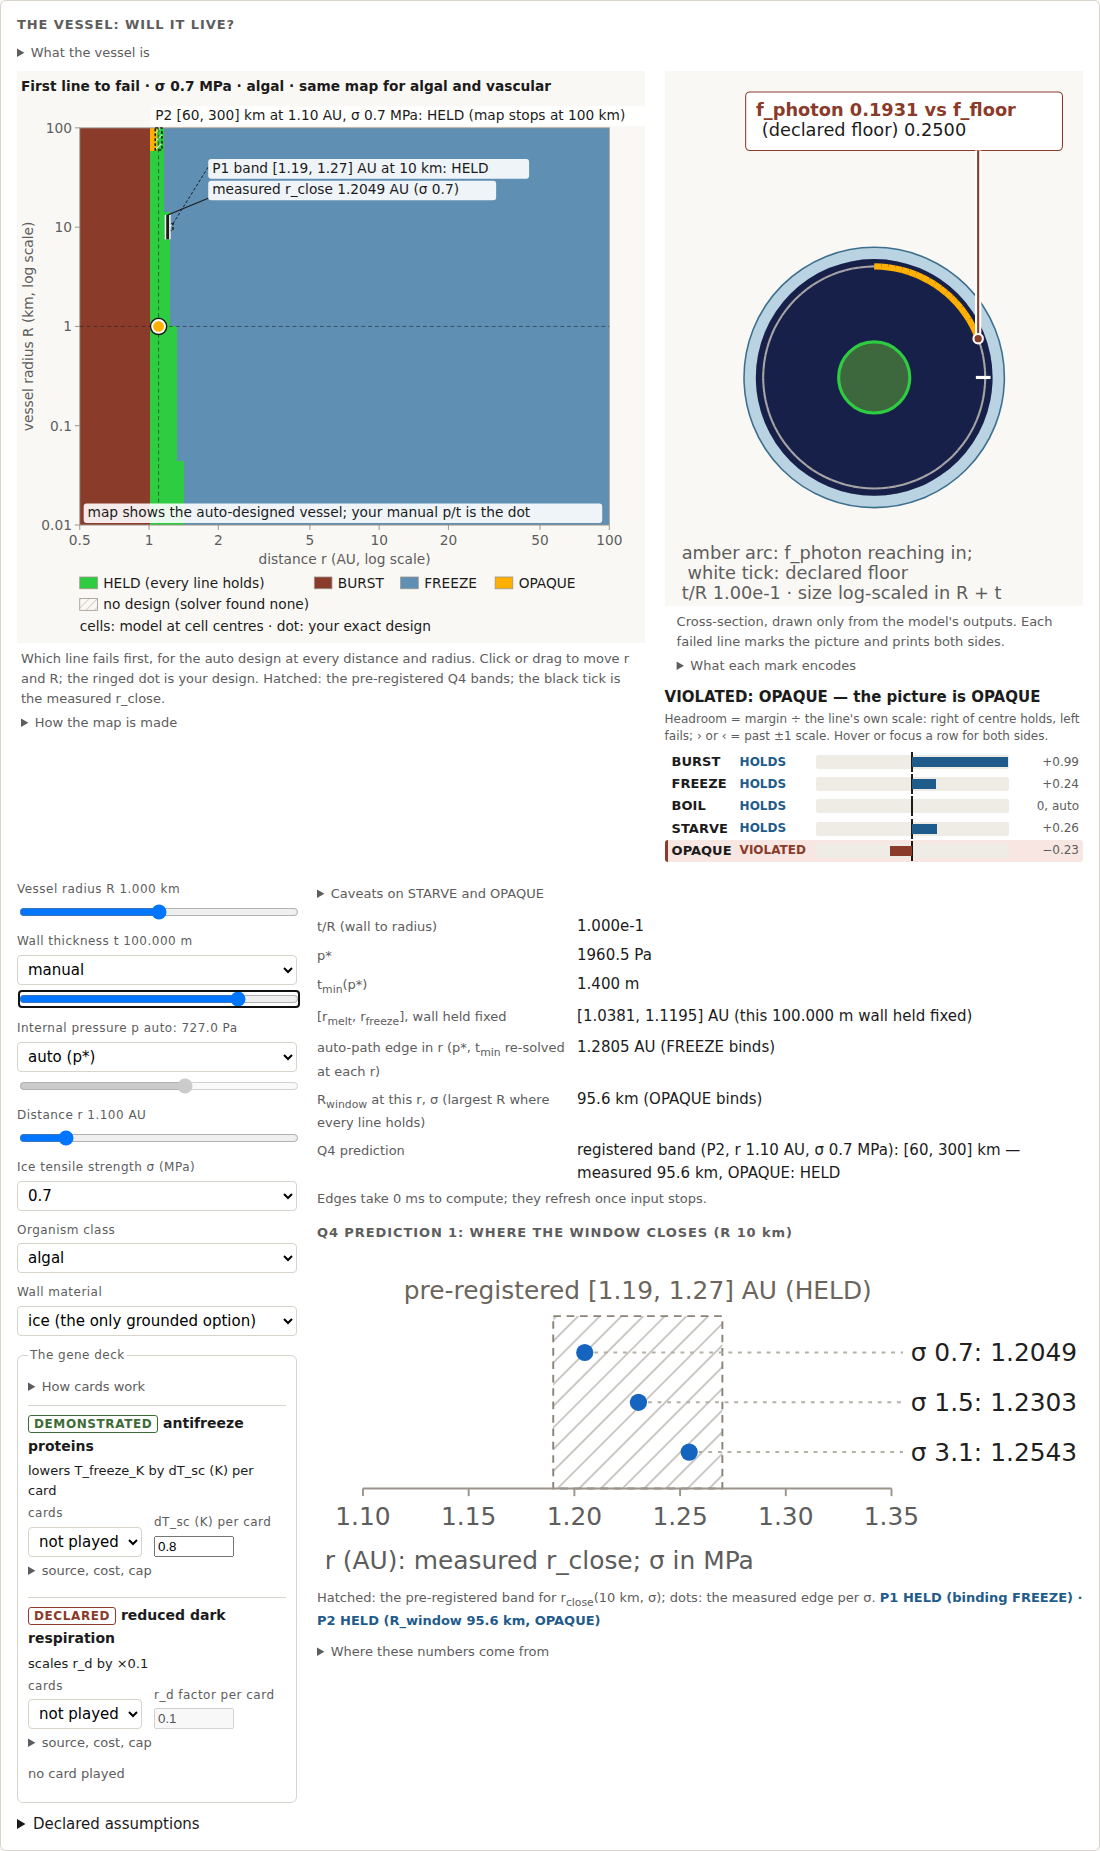
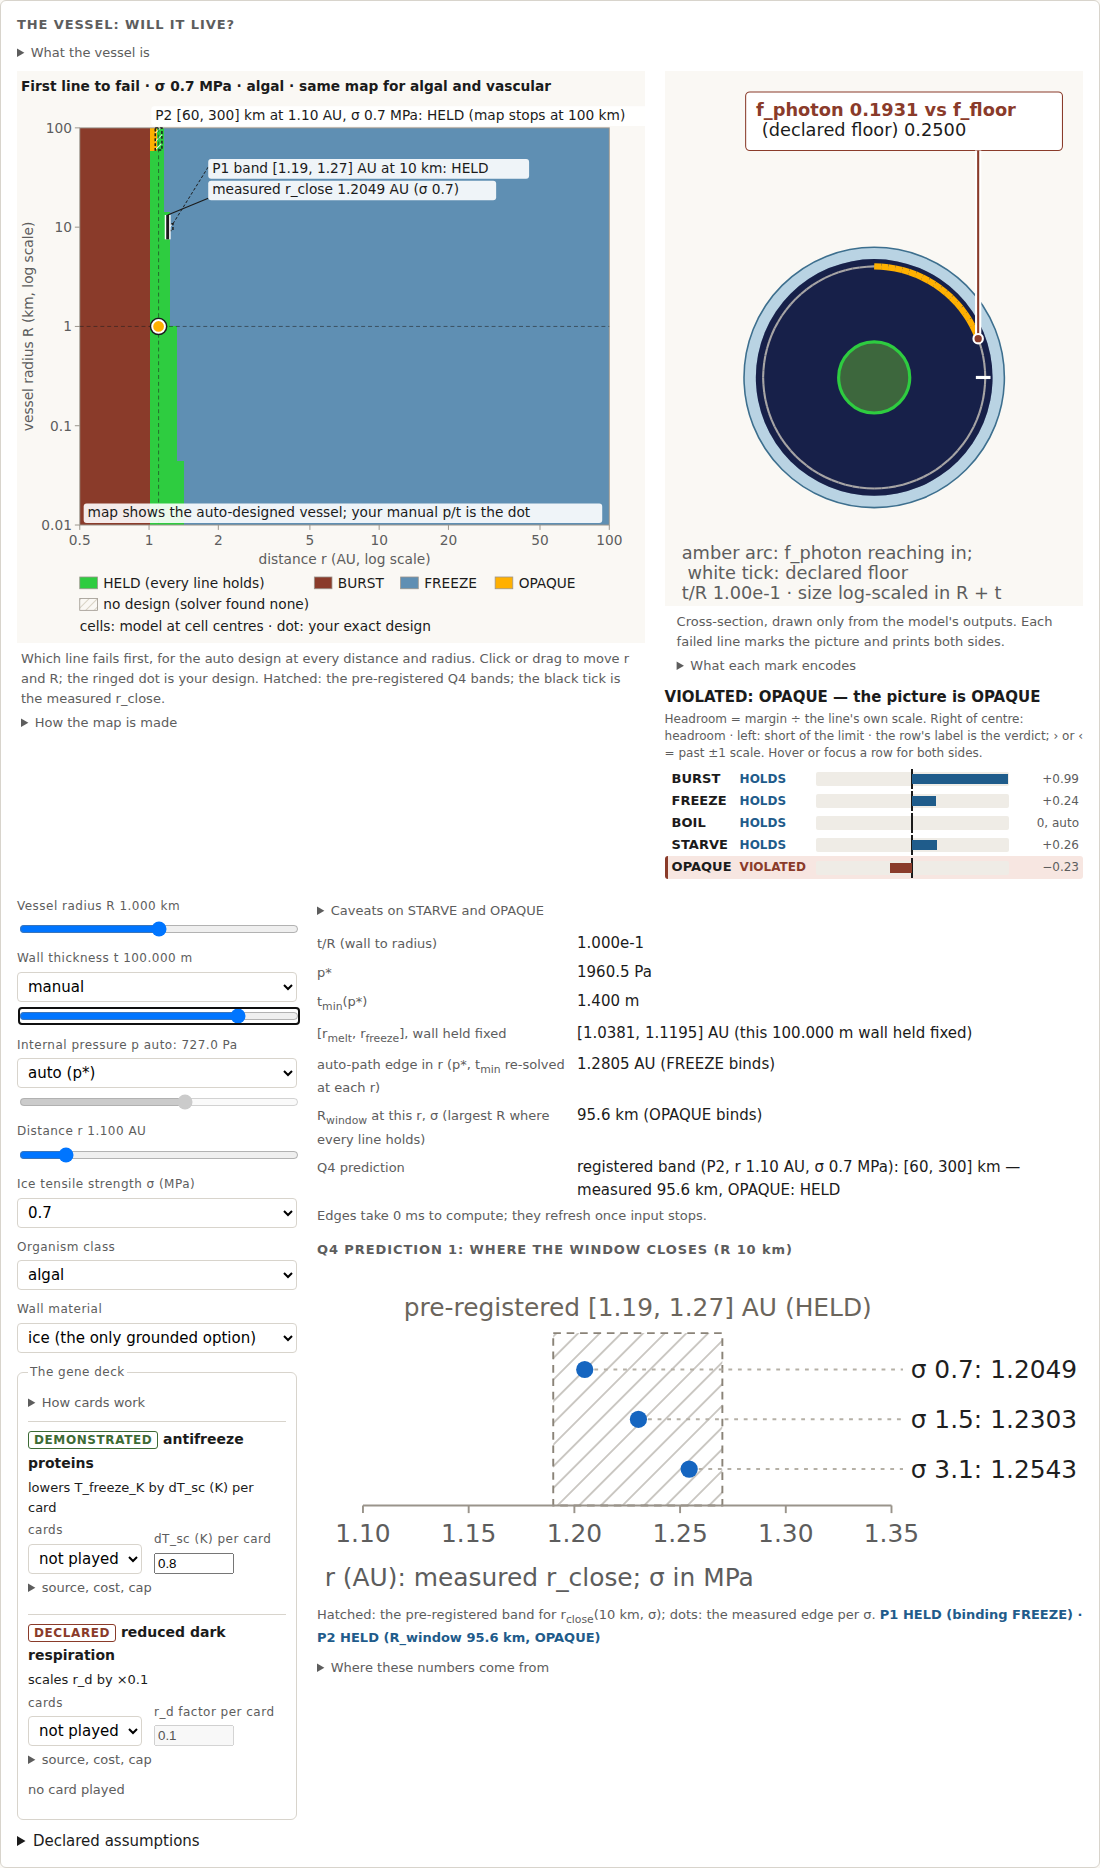
review fixes: FREEZE bar tooltip in K on both sides (test seen failing on the old unit); bar key says right of centre is headroom and the label is the verdict (STARVE/OPAQUE can hold inside the detection floor); Q1 'is not' line scoped to the Q1 model; clamp caps light on dark over the bar end, 13 p

diff --git a/web/index.html b/web/index.html
@@ -104,10 +104,11 @@
       .hr-zero { position: absolute; left: 50%; top: -3px; bottom: -3px; width: 2px; margin-left: -1px; background: var(--ink); }
       .hr-fill { position: absolute; top: 2px; bottom: 2px; background: var(--curve); }
       .hr-row[data-violated="true"] .hr-fill { background: var(--warn); }
-      .hr-cap { display: none; position: absolute; top: 50%; transform: translateY(-50%); font-size: 16px;
-        font-weight: 700; line-height: 1; color: var(--ink); }
-      .hr-cap-left { display: block; left: -2px; }
-      .hr-cap-right { display: block; right: -2px; }
+      /* the clamp cap: light on dark, over the bar's end, so it reads on either fill colour */
+      .hr-cap { display: none; position: absolute; top: -2px; bottom: -2px; font-size: 13px; font-weight: 700;
+        line-height: 18px; padding: 0 4px; border-radius: 3px; color: #ffffff; background: var(--ink); }
+      .hr-cap-left { display: block; left: 0; }
+      .hr-cap-right { display: block; right: 0; }
       .hr-val { font-size: 12px; text-align: right; font-variant-numeric: tabular-nums; color: var(--muted); }
       /* both sides and the printed margin: in the row for screen readers, shown on hover/focus */
       .hr-detail { position: absolute; width: 1px; height: 1px; overflow: hidden; clip-path: inset(50%);
@@ -177,8 +178,8 @@
             <div class="headroom" id="headroom">
               <p id="v-summary" class="vsummary" role="status" aria-live="polite"></p>
               <p id="v-error" class="verdict-failed" role="alert"></p>
-              <p class="hr-key">Headroom = margin ÷ the line's own scale: right of centre holds, left fails;
-                › or ‹ = past ±1 scale. Hover or focus a row for both sides.</p>
+              <p class="hr-key">Headroom = margin ÷ the line's own scale. Right of centre: headroom · left: short of
+                the limit · the row's label is the verdict; › or ‹ = past ±1 scale. Hover or focus a row for both sides.</p>
               <div class="hr-row" id="hr-BURST" data-line="BURST" tabindex="0" role="group" aria-labelledby="hr-BURST-name">
                 <span class="hr-name" id="hr-BURST-name">BURST</span>
                 <span class="hr-status" id="v-status-BURST"></span>
@@ -430,7 +431,7 @@
           <h2>WHAT THIS IS / IS NOT</h2>
           <ul class="isnot-short">
             <li>An uncontained organism at a fixed tissue temperature (the Q1 model).</li>
-            <li>No pressure vessel here; see the vessel above.</li>
+            <li>No pressure vessel in this Q1 model; the vessel is a precondition, not a later extension.</li>
             <li>No spectral wall: a scalar <em>k</em> for a wall is a category error (Q3).</li>
             <li>Registered thermal predictions falsified for algal (Q2b).</li>
             <li>Hatched bands are predictions written before the run; for algal, Q1's failed.</li>

diff --git a/web/verdict.js b/web/verdict.js
@@ -242,7 +242,7 @@
   var FREEZE_SCALE_K = 10;
   function barScale(name, L, res) {
     if (name === "BURST") return { v: L.rhs, name: "σ_eff(T_shell)", unit: "Pa" };
-    if (name === "FREEZE") return { v: FREEZE_SCALE_K, name: "10 K (a display scale, not a model output)", unit: "" };
+    if (name === "FREEZE") return { v: FREEZE_SCALE_K, name: "10 K (a display scale, not a model output)", unit: "K" };
     if (name === "BOIL") return { v: L.rhs, name: "p_sat(T_int)", unit: "Pa" };
     if (name === "STARVE") return { v: res.org.a_max, name: "a_max (the organism's)", unit: "µmol m⁻² s⁻¹" };
     if (name === "OPAQUE") return { v: L.rhs, name: "f_floor (declared)", unit: "" };

diff --git a/tools/smoke_page.py b/tools/smoke_page.py
@@ -19,6 +19,7 @@ from __future__ import annotations
 
 import http.server
 import json
+import os
 import re
 import signal
 import socketserver
@@ -36,6 +37,8 @@ ROOT = Path(__file__).resolve().parents[1]
 SITE = ROOT / "site"
 FIXTURES = json.loads((ROOT / "web" / "fixtures.json").read_text())
 SUBPATH = "dyson-tree"
+# review screenshots (not the tracked docs/m3_shots): $DT_SMOKE_SHOT_DIR, else _scratch/ (gitignored)
+SHOT_DIR = Path(os.environ.get("DT_SMOKE_SHOT_DIR") or ROOT / "_scratch" / "smoke_shots")
 
 failures: list[str] = []
 notes: list[str] = []
@@ -869,9 +872,7 @@ def exercise_map(page, label: str) -> None:
     settle()
 
 
-MAP_SHOT = (
-    ROOT / ".superpowers" / "sdd" / "2026-09-25-visual-first-dyson" / "task-3-shot.png"
-)
+MAP_SHOT = SHOT_DIR / "task-3-shot.png"
 
 
 def exercise_map_live(page, label: str, shoot: bool) -> None:
@@ -958,9 +959,6 @@ def exercise_map_live(page, label: str, shoot: bool) -> None:
         src() == "precomputed" and page.locator("#map-live-status").count() == 0,
         f"[{label}] map live: card off -> precomputed map current again ({src()})",
     )
-
-
-SHOT_DIR = ROOT / ".superpowers" / "sdd" / "2026-09-25-visual-first-dyson"
 
 
 def exercise_headroom(page, label: str, shoot: bool) -> None:
@@ -1126,6 +1124,7 @@ def main() -> int:
     import shutil
     import tempfile
 
+    SHOT_DIR.mkdir(parents=True, exist_ok=True)
     tmp = Path(tempfile.mkdtemp(prefix="dt-smoke-"))
     shutil.copytree(SITE, tmp / SUBPATH)
     httpd, port = serve(tmp)

diff --git a/tests/test_site_verdict.py b/tests/test_site_verdict.py
@@ -448,3 +448,11 @@ def test_bar_clamps_at_one_scale_and_says_so(page):
     assert norm(b) < -1 and b["attrs"].get("data-violated") == "true", b
     assert b["attrs"].get("data-clamped") == "true" and float(b["attrs"]["data-len"]) == -1.0, b
     assert "hr-cap-left" in (b["cap"] or ""), b
+
+
+def test_freeze_bar_title_carries_kelvin_on_both_sides(page):
+    # FREEZE's scale is 10 K; the margin it divides is in K too, so both sides say so
+    t = bar(page["res"]["defaults"], "FREEZE")["attrs"]["title"]
+    assert re.search(r"= [-+−]?\d+(?:\.\d+)? K ÷ 10(?:\.0+)? K = ", t), t
+    # positive control: a line in Pa still prints its unit, not K
+    assert " Pa ÷ " in bar(page["res"]["defaults"], "BURST")["attrs"]["title"]
